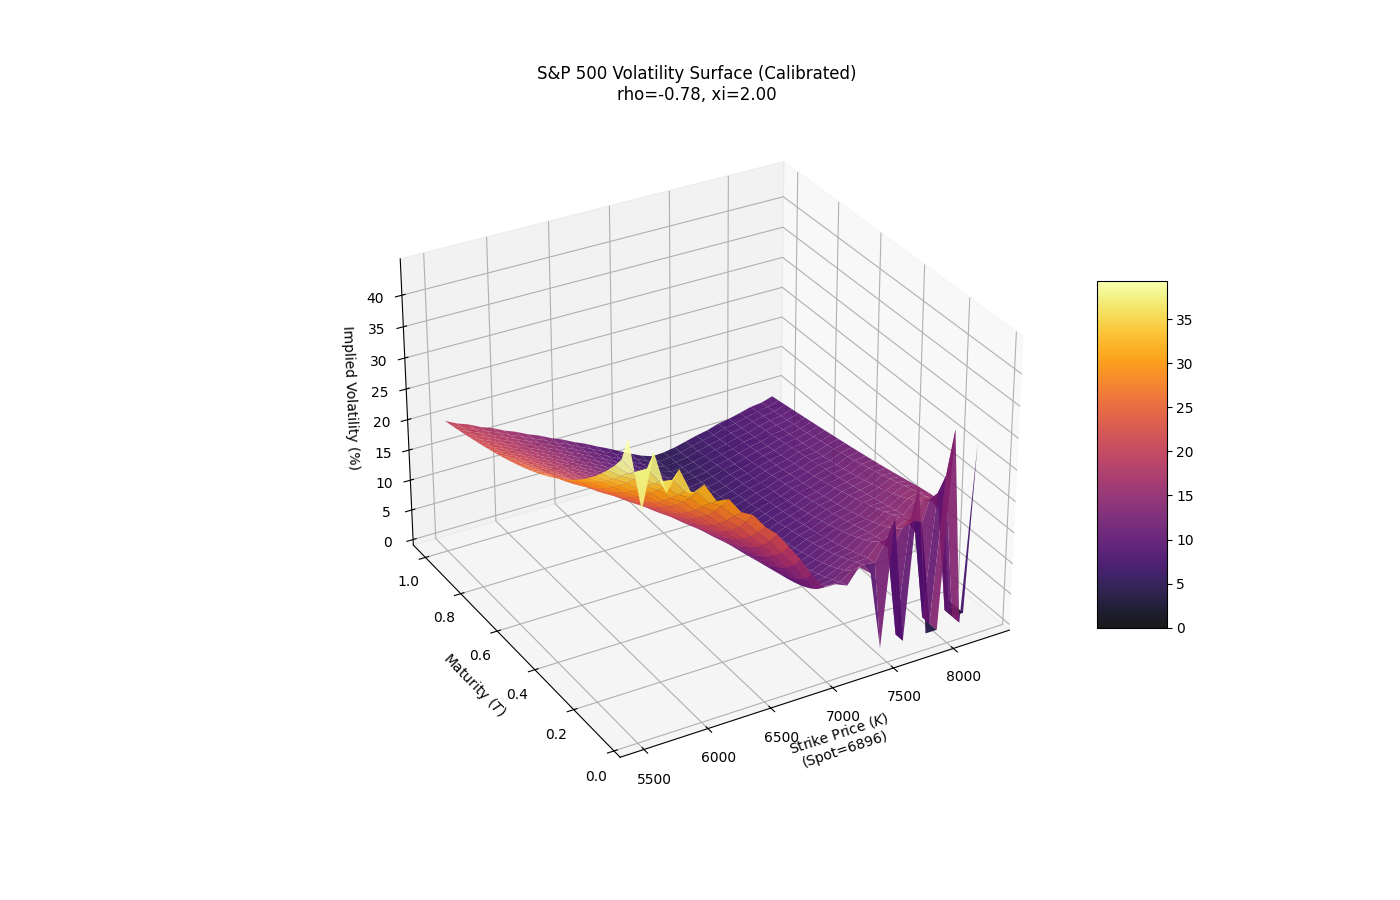
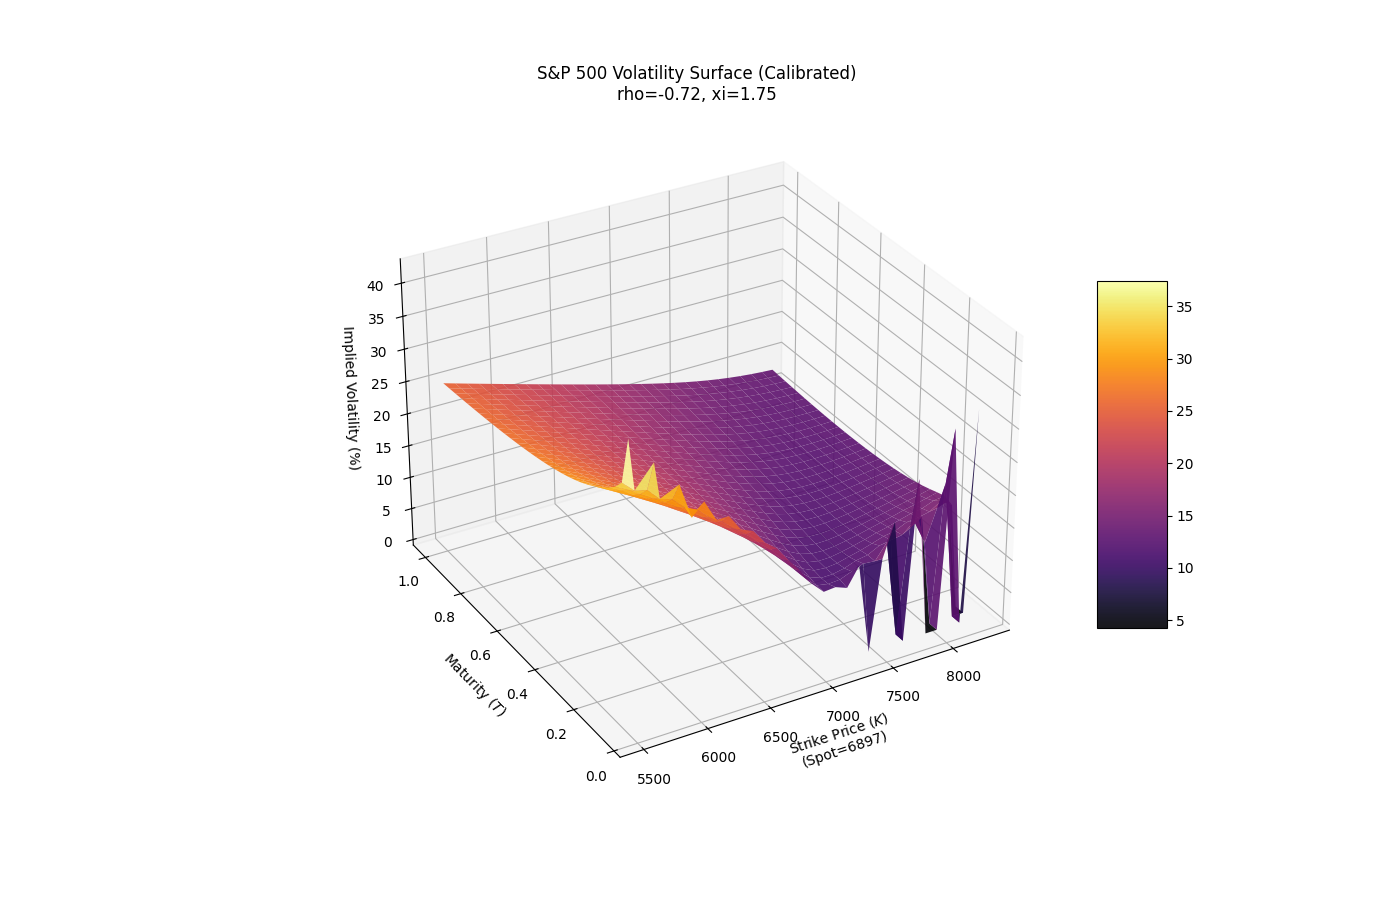
docs: changed comment structure

diff --git a/examples/fetch_data.py b/examples/fetch_data.py
@@ -5,10 +5,10 @@ from datetime import datetime
 from typing import List, Tuple
 from heston_pricer.calibration import MarketOption
 
-def fetch_spx_options(min_open_interest: int = 500) -> Tuple[List[MarketOption], float]:
+def fetch_spx_options(min_open_interest: int = 100) -> Tuple[List[MarketOption], float]:
     """
-    Fetches S&P 500 (^SPX) option chains, scanning until it finds 
-    valid liquid maturities (T > 14 days).
+    Fetches S&P 500 (^SPX) option chains using Bucket Scanning.
+    Ensures we get a Term Structure (Short, Medium, Long) rather than just next week's options.
     """
     ticker_symbol = "^SPX"
     print(f"--- 1. Connecting to Yahoo Finance ({ticker_symbol}) ---")
@@ -26,38 +26,52 @@ def fetch_spx_options(min_open_interest: int = 500) -> Tuple[List[MarketOption],
     print(f"    Found {len(expirations)} total expiration dates.")
     
     market_options = []
-    found_maturities = 0
-    REQUIRED_MATURITIES = 3  # We want at least 3 distinct valid expiration dates
     
-    print("\n--- 2. Scanning Option Chains ---")
+    # --- BUCKET DEFINITIONS ---
+    # We want to find at least one valid maturity in each bucket.
+    buckets = {
+        "Short (14d-3m)":  {'min': 0.04, 'max': 0.25, 'filled': False},
+        "Medium (3m-9m)":  {'min': 0.25, 'max': 0.75, 'filled': False},
+        "Long (9m-1.5y)":  {'min': 0.75, 'max': 1.50, 'filled': False}
+    }
     
-    # Scan up to the first 20 expirations to bypass daily/weekly noise
-    for exp_date_str in expirations[:25]:
-        if found_maturities >= REQUIRED_MATURITIES:
+    print("\n--- 2. Scanning Option Chains (Bucket Strategy) ---")
+    
+    # Iterate through ALL expirations (or a large slice) to find matches for our buckets
+    # We increase the slice to 50 to ensure we reach the yearly options.
+    for exp_date_str in expirations[:60]:
+        
+        # Check if we are done
+        if all(b['filled'] for b in buckets.values()):
+            print("    >> All buckets filled. Stopping scan.")
             break
-            
+
         # Calculate T
         exp_date = datetime.strptime(exp_date_str, "%Y-%m-%d")
         T = (exp_date - datetime.now()).days / 365.25
         
-        # FILTER 1: Time to Maturity
-        # We want > 14 days (cleaner volatility) and < 1.5 years
-        if T < 14/365.25:
-            # print(f"    Skipping {exp_date_str} (Too short: {T*365:.1f} days)")
-            continue
-        if T > 1.5:
+        # Determine which bucket this T falls into
+        target_bucket = None
+        for name, limits in buckets.items():
+            if limits['min'] <= T <= limits['max'] and not limits['filled']:
+                target_bucket = name
+                break
+        
+        # If this date doesn't fit a needed bucket, skip it (unless we want extra density)
+        if target_bucket is None:
             continue
             
-        print(f"    -> Checking Expiry: {exp_date_str} (T={T:.3f}y)")
+        print(f"    -> Checking Expiry: {exp_date_str} (T={T:.3f}y) for [{target_bucket}]")
         
         try:
             chain = ticker.option_chain(exp_date_str)
             calls = chain.calls
-        except Exception:
+        except Exception as e:
+            print(f"       [!] Error fetching chain: {e}")
             continue
 
-        # FILTER 2: Moneyness & Liquidity
-        # Moneyness: 0.85 < K/S0 < 1.15
+        # FILTER: Moneyness & Liquidity
+        # Moneyness: 0.85 < K/S0 < 1.15 (Focus on the smile around the money)
         mask = (
             (calls['strike'] > S0 * 0.85) & 
             (calls['strike'] < S0 * 1.15) & 
@@ -67,17 +81,17 @@ def fetch_spx_options(min_open_interest: int = 500) -> Tuple[List[MarketOption],
         filtered_calls = calls[mask]
         
         if filtered_calls.empty:
-            print(f"       [!] No liquid options found for this date (OI > {min_open_interest}).")
+            print(f"       [!] No liquid options found (OI > {min_open_interest}).")
             continue
             
         # Data Extraction
         count = 0
-        for _, row in filtered_calls.iterrows():
+        # We limit to ~10 options per maturity to prevent the optimizer from 
+        # being overwhelmed by one specific date.
+        for _, row in filtered_calls.iloc[::2].iterrows(): # Take every 2nd option to spread strikes
             bid, ask = row['bid'], row['ask']
-            # Use Mid if valid, else Last
             price = (bid + ask) / 2.0 if (bid > 0 and ask > 0) else row['lastPrice']
             
-            # Sanity check: Price must be > 0.05
             if price < 0.05: continue
             
             market_options.append(MarketOption(
@@ -89,14 +103,13 @@ def fetch_spx_options(min_open_interest: int = 500) -> Tuple[List[MarketOption],
             count += 1
             
         if count > 0:
-            print(f"       Loaded {count} options.")
-            found_maturities += 1
+            print(f"       Loaded {count} options. >> Bucket [{target_bucket}] FILLED.")
+            buckets[target_bucket]['filled'] = True
             
     print(f"\n--- 3. Summary ---")
     print(f"    Total Liquid Options Collected: {len(market_options)}")
-    
-    if len(market_options) == 0:
-        print("\n[!] CRITICAL: Still 0 options. Try lowering 'min_open_interest' to 100.")
+    for name, status in buckets.items():
+        print(f"    {name}: {'Found' if status['filled'] else '❌ Missing'}")
     
     return market_options, S0
 

diff --git a/examples/plot_volatility_surface.py b/examples/plot_volatility_surface.py
@@ -30,17 +30,17 @@ def main():
     print("Generating SPX Volatility Surface...")
 
     # 1. Calibrated Parameters (From your run)
-    S0 = 6896.04
+    S0 = 6896.84
     r = 0.045
     q = 0.015
     
     # "The DNA of the Market"
     params = {
-        'kappa': 0.1000, 
-        'theta': 0.0015, 
-        'xi': 2.0000, 
-        'rho': -0.7814, 
-        'v0': 0.0400
+        'kappa': 4.5243, 
+        'theta': 0.0537, 
+        'xi': 1.7527, 
+        'rho': -0.7161, 
+        'v0': 0.0259
     }
     
     print(f"Parameters: {params}")
